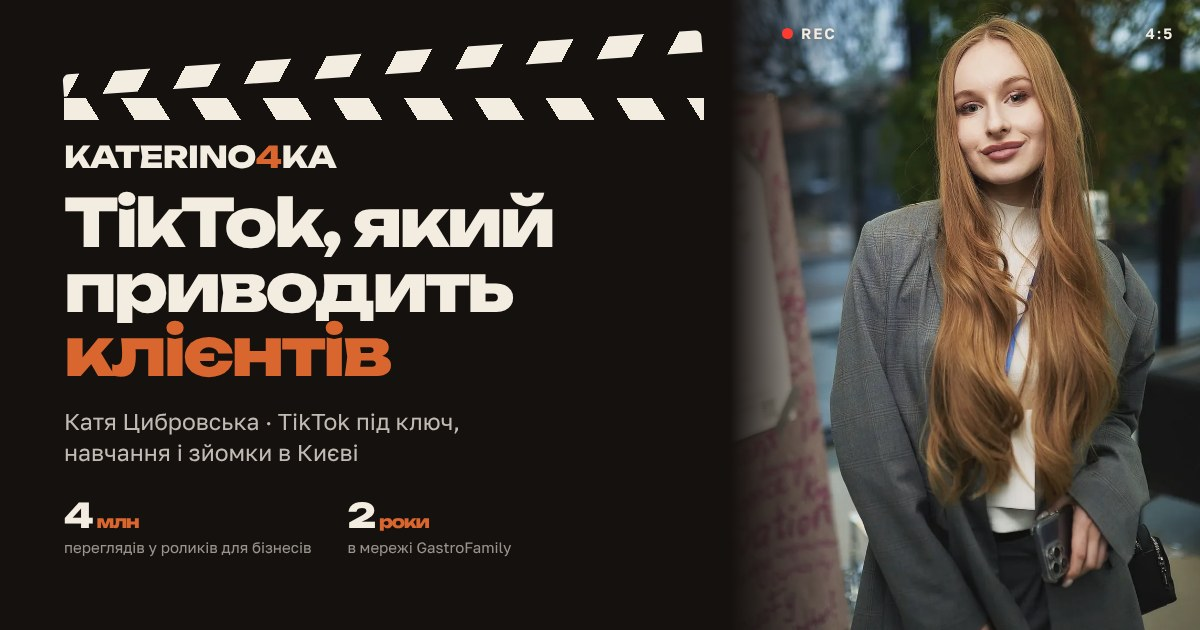
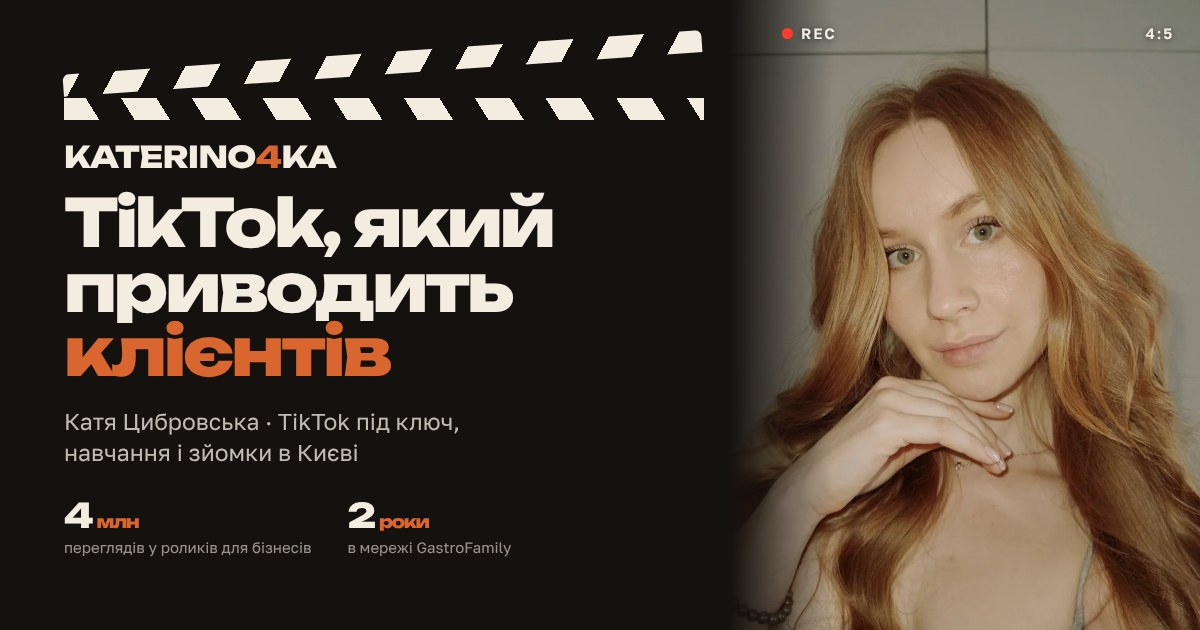
Hero: нове фото Каті, у «Про мене» — фото в піджаку
Фото з hero і «Про мене» помінялись місцями, щоб не дублювались.
OG-картка перегенерована з новим фото.

Claude-Session: https://claude.ai/code/session_01LwM6si7hUi12EXpJpp58bD

diff --git a/site/index.html b/site/index.html
@@ -160,7 +160,7 @@ html[lang^=uk] .bro-credit [data-l=en],html[lang^=ru] .bro-credit [data-l=en],ht
 
   <figure class="hero__frame frame" data-media="hero">
     <div class="frame__screen">
-      <img src="/assets/img/hero-katya-sm.webp" srcset="/assets/img/hero-katya-sm.webp 560w, /assets/img/hero-katya.webp 960w" sizes="(max-width: 860px) 92vw, 40vw" alt="Катя Цибровська, TikTok-маркетологиня і відеографка" width="960" height="1200" fetchpriority="high">
+      <img src="/assets/img/hero-katya-v2-sm.webp" srcset="/assets/img/hero-katya-v2-sm.webp 560w, /assets/img/hero-katya-v2.webp 960w" sizes="(max-width: 860px) 92vw, 40vw" alt="Катя Цибровська, TikTok-маркетологиня і відеографка" width="960" height="1200" fetchpriority="high">
     </div>
     <figcaption class="frame__hud" aria-hidden="true">
       <span class="rec">RAW</span>
@@ -549,7 +549,7 @@ html[lang^=uk] .bro-credit [data-l=en],html[lang^=ru] .bro-credit [data-l=en],ht
 <section class="about section" id="about" aria-labelledby="about-title">
   <div class="wrap about__grid">
     <figure class="about__photo frame frame--photo" data-media="about">
-      <div class="frame__screen"><img src="/assets/img/about-katya-sm.webp" srcset="/assets/img/about-katya-sm.webp 540w, /assets/img/about-katya.webp 1080w" sizes="(max-width: 860px) 90vw, 40vw" alt="Катя Цибровська з довгим рудим волоссям" loading="lazy" width="1080" height="1440"></div>
+      <div class="frame__screen"><img src="/assets/img/about-katya-v2-sm.webp" srcset="/assets/img/about-katya-v2-sm.webp 560w, /assets/img/about-katya-v2.webp 960w" sizes="(max-width: 860px) 90vw, 40vw" alt="Катя Цибровська з довгим рудим волоссям" loading="lazy" width="960" height="1200"></div>
     </figure>
     <div class="about__text">
       <h2 class="h2" id="about-title" data-i18n="about.title">Привіт, я Катя!</h2>

diff --git a/scripts/og/card.html b/scripts/og/card.html
@@ -26,7 +26,7 @@ h1 span{color:#d9662e;display:block}
 .stats span{font-size:15px;color:rgba(243,236,225,.6)}
 .foot{position:absolute;left:64px;bottom:30px;font:600 15px/1 "Golos Text";letter-spacing:.14em;text-transform:uppercase;color:rgba(243,236,225,.5)}
 </style></head><body>
-<div class="photo"><img src="../../site/assets/img/hero-katya.webp" alt=""><div class="hud"><b>REC</b><span>4:5</span></div></div>
+<div class="photo"><img src="../../site/assets/img/hero-katya-v2.webp" alt=""><div class="hud"><b>REC</b><span>4:5</span></div></div>
 <div class="left">
   <div class="clap"><i></i><i></i></div>
   <p class="mark">KATERINO<b>4</b>KA</p>

diff --git a/materials/telegram/EDITS.md b/materials/telegram/EDITS.md
@@ -41,3 +41,4 @@
 | 28 | Підвал: «Katerino4ka» великими літерами (photo_45) | `KATERINO4KA` як у шапці |
 | 29 | Додати хрещення до відеозйомок (IMG_3614) | `shoot-v5` — 13,7 с, без запису екрана; тепер 4 відео |
 | 30 | Waffle Bar у «Ролики для бізнесів»: 2,8 млн переглядів (IMG_3662; скрін photo_46 з 191,3 тис. замінено цим відео) | `biz-9` першим у стрічці, без фінальної заставки TikTok |
+| 31 | (Александр, 20.10) Фото в hero замінити на селфі в сірому топі | `hero-katya-v2*.webp` (кроп 4:5); у «Про мене» тепер колишнє hero-фото в піджаку (`about-katya-v2*.webp`), щоб фото не дублювалось; OG-картка перегенерована |
